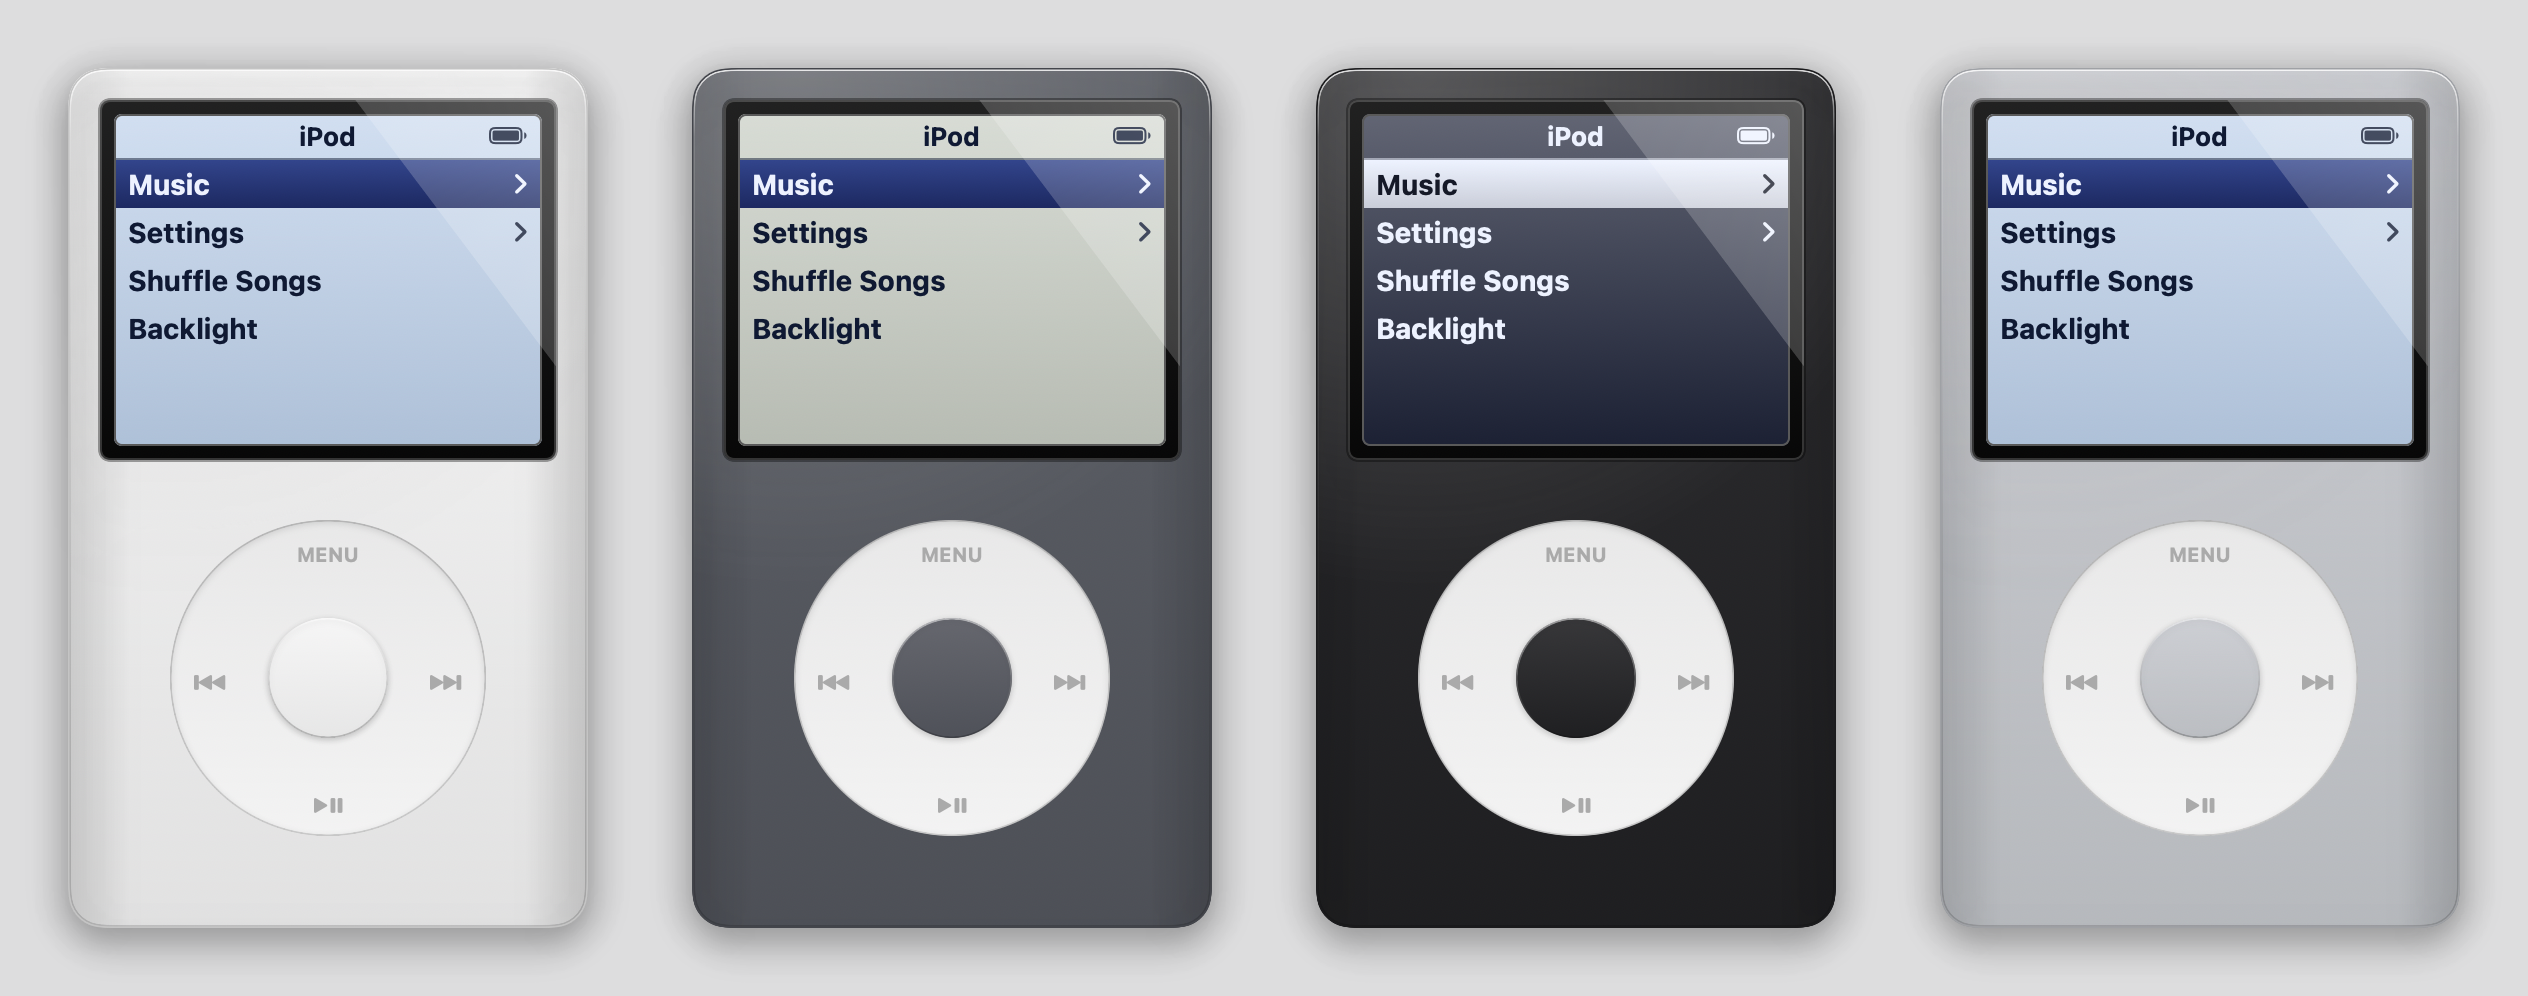
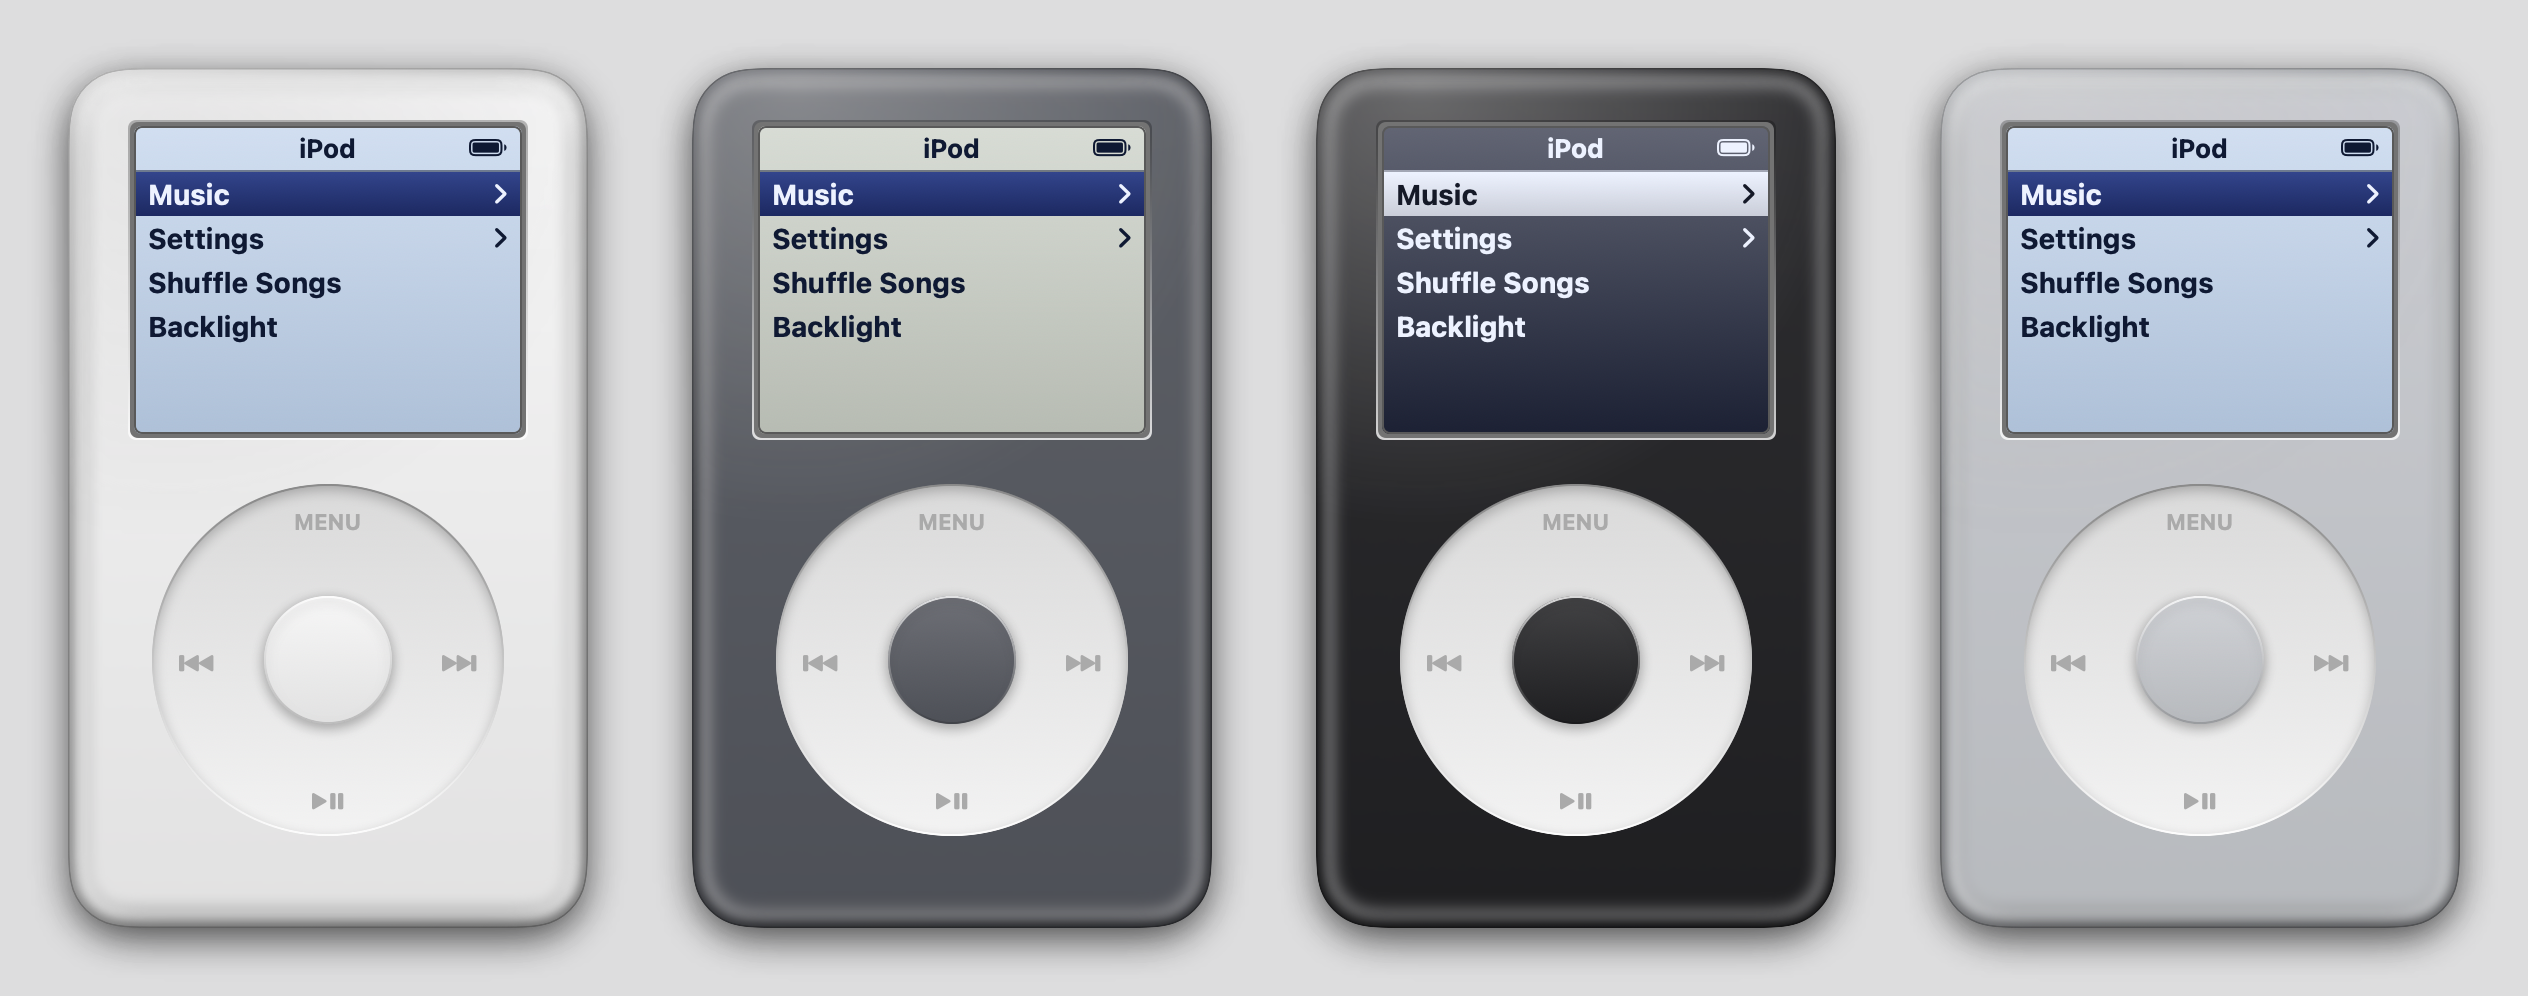
Restyle widget after 4th-gen iPod with rounded body edges
- Pillow-shaped glossy body whose rim rolls away from the face
- Thin gray screen frame in a shallow recess instead of a black bezel
- Recessed click wheel and convex center button
- Update README screenshot

diff --git a/Sources/iPodWidget/Views/IPodView.swift b/Sources/iPodWidget/Views/IPodView.swift
@@ -1,3 +1,4 @@
+import IPodCore
 import SwiftUI
 
 /// Moves the borderless window while the iPod body is dragged.
@@ -31,18 +32,17 @@ struct IPodView: View {
 
     var body: some View {
         let style = Style(theme: themeStore.theme)
-        let colors = style.colors
         let shape = RoundedRectangle(cornerRadius: Layout.bodyCornerRadius, style: .continuous)
-        let bezel = RoundedRectangle(cornerRadius: 5, style: .continuous)
+        let frame = RoundedRectangle(cornerRadius: 4, style: .continuous)
         VStack(spacing: Layout.screenToWheelSpacing) {
+            // Screen under the plastic face: thin gray frame set into a shallow recess.
             ScreenView(model: model)
                 .frame(height: Layout.screenHeight)
-                .padding(Layout.bezelWidth)
-                .background(bezel.fill(LinearGradient(colors: [Palette.bezelTop, Palette.bezelBottom], startPoint: .top, endPoint: .bottom)))
-                // One sheet of glass covers bezel and screen: sharp diagonal glare and a thin bright edge.
-                .overlay(GlareShape().fill(Self.glare).clipShape(bezel).allowsHitTesting(false))
-                .overlay(bezel.strokeBorder(Color.white.opacity(0.18), lineWidth: 1))
-                .overlay(bezel.inset(by: -1).strokeBorder(Color.black.opacity(0.35), lineWidth: 1))
+                .padding(Layout.screenFrameWidth)
+                .background(frame.fill(Palette.screenFrame))
+                .padding(1)
+                .background(frame.fill(Self.recessLip))
+                .padding(.horizontal, Layout.screenSideInset)
             ClickWheelView(
                 onRotate: model.rotate,
                 onButton: model.press,
@@ -51,18 +51,9 @@ struct IPodView: View {
             .frame(width: Layout.wheelDiameter, height: Layout.wheelDiameter)
             Spacer(minLength: 0)
         }
-        .padding(Layout.bodyPadding)
+        .padding(.top, Layout.screenTopInset)
         .frame(width: Layout.deviceSize.width, height: Layout.deviceSize.height)
-        .background(
-            // Anodized aluminum: soft vertical sheen, darker rounded sides, bright top bevel, drop shadow.
-            shape
-                .fill(LinearGradient(colors: [Color(colors.bodyTop), Color(colors.bodyBottom)], startPoint: .top, endPoint: .bottom))
-                .overlay(shape.fill(Self.sideShade))
-                .overlay(shape.fill(Self.specular))
-                .overlay(shape.strokeBorder(Self.bevel, lineWidth: 1.5))
-                .overlay(shape.strokeBorder(Color(colors.bodyEdge), lineWidth: 0.75))
-                .shadow(color: .black.opacity(0.35), radius: 10, y: 6)
-        )
+        .background(PillowBody(colors: style.colors, shape: shape))
         .contentShape(shape)
         .gesture(
             DragGesture(minimumDistance: 2)
@@ -73,59 +64,54 @@ struct IPodView: View {
         .environment(\.style, style)
     }
 
-    private static let specular = RadialGradient(
-        colors: [.white.opacity(0.22), .white.opacity(0)],
-        center: UnitPoint(x: 0.2, y: 0),
-        startRadius: 0,
-        endRadius: 260
-    )
-
-    /// Rounded sides of the body catch less light than its face.
-    private static let sideShade = LinearGradient(
-        stops: [
-            .init(color: .black.opacity(0.10), location: 0),
-            .init(color: .clear, location: 0.12),
-            .init(color: .clear, location: 0.88),
-            .init(color: .black.opacity(0.12), location: 1),
-        ],
-        startPoint: .leading,
-        endPoint: .trailing
-    )
-
-    /// Thin highlight along the top edge fading out toward the bottom.
-    private static let bevel = LinearGradient(
-        stops: [
-            .init(color: .white.opacity(0.85), location: 0),
-            .init(color: .white.opacity(0.15), location: 0.08),
-            .init(color: .black.opacity(0.15), location: 1),
-        ],
+    /// Edge of a recess: shaded where the face drops in at the top, lit at the bottom.
+    private static let recessLip = LinearGradient(
+        colors: [.black.opacity(0.25), .white.opacity(0.8)],
         startPoint: .top,
         endPoint: .bottom
     )
-
-    private static let glare = LinearGradient(
-        colors: [.white.opacity(0.24), .white.opacity(0.07)],
-        startPoint: .topTrailing,
-        endPoint: .bottomLeading
-    )
 }
 
-/// Upper-right wedge of the cover glass that reflects light.
-private struct GlareShape: Shape {
-    func path(in rect: CGRect) -> Path {
-        Path { p in
-            p.move(to: CGPoint(x: rect.width * 0.56, y: 0))
-            p.addLine(to: CGPoint(x: rect.width, y: 0))
-            p.addLine(to: CGPoint(x: rect.width, y: rect.height * 0.74))
-            p.closeSubpath()
+/// Glossy plastic body whose edges roll away from the flat face, lit from the top-left.
+private struct PillowBody: View {
+    let colors: ThemeColors
+    let shape: RoundedRectangle
+
+    var body: some View {
+        let rim = Layout.bodyRimWidth
+        ZStack {
+            // Outer edge: bright where it faces the light, falling into shadow at the bottom-right.
+            shape.fill(LinearGradient(
+                colors: [Color(colors.bodyTop.adjusted(by: -0.08)), Color(colors.bodyBottom.adjusted(by: -0.38))],
+                startPoint: .topLeading,
+                endPoint: .bottomTrailing
+            ))
+            // Highlight band where the edge starts to curve.
+            shape.inset(by: rim * 0.3)
+                .fill(Color(colors.bodyTop.adjusted(by: 0.3)))
+                .blur(radius: rim * 0.25)
+            // Flat face, blended into the rim.
+            shape.inset(by: rim)
+                .fill(LinearGradient(colors: [Color(colors.bodyTop), Color(colors.bodyBottom)], startPoint: .top, endPoint: .bottom))
+                .blur(radius: rim * 0.3)
         }
+        .clipShape(shape)
+        .overlay(shape.fill(Self.gloss))
+        .overlay(shape.strokeBorder(Color.black.opacity(0.2), lineWidth: 0.75))
+        .shadow(color: .black.opacity(0.35), radius: 10, y: 6)
     }
+
+    private static let gloss = RadialGradient(
+        colors: [.white.opacity(0.3), .white.opacity(0)],
+        center: UnitPoint(x: 0.2, y: 0.02),
+        startRadius: 0,
+        endRadius: 220
+    )
 }
 
 /// Colors that do not follow the theme.
 enum Palette {
-    static let bezelTop = Color(white: 0.13)
-    static let bezelBottom = Color(white: 0.03)
+    static let screenFrame = Color(white: 0.45)
     static let lcdFrame = Color(white: 0.35)
     static let backlightOff = Color(red: 0.55, green: 0.58, blue: 0.55).opacity(0.55)
 }

diff --git a/Sources/iPodWidget/Views/ClickWheelView.swift b/Sources/iPodWidget/Views/ClickWheelView.swift
@@ -18,22 +18,22 @@ struct ClickWheelView: View {
         return GeometryReader { geo in
             let center = CGPoint(x: geo.size.width / 2, y: geo.size.height / 2)
             ZStack {
-                // Matte ring set flush into the body: faint top shade, thin dark seam.
+                // Ring set into the face: darker toward the top, inner shadow, lip lit from below.
                 Circle()
                     .fill(
-                        LinearGradient(colors: [Color(face.adjusted(by: -0.04)), Color(face.adjusted(by: 0.03))], startPoint: .top, endPoint: .bottom)
-                            .shadow(.inner(color: .black.opacity(0.15), radius: 2, y: 1))
+                        LinearGradient(colors: [Color(face.adjusted(by: -0.1)), Color(face.adjusted(by: 0.03))], startPoint: .top, endPoint: .bottom)
+                            .shadow(.inner(color: .black.opacity(0.28), radius: 3.5, y: 2.5))
                     )
-                    .overlay(Circle().strokeBorder(Color.black.opacity(0.14), lineWidth: 0.75))
+                    .overlay(Circle().strokeBorder(LinearGradient(colors: [.black.opacity(0.2), .white.opacity(0.9)], startPoint: .top, endPoint: .bottom), lineWidth: 1))
                     .contentShape(Circle())
                     .gesture(rotation(center: center))
                 labels
                     .allowsHitTesting(false)
-                // Slightly convex button in the body color, lit from the top.
+                // Convex button in the body color: lit on top, casting a soft shadow into the ring.
                 Circle()
-                    .fill(LinearGradient(colors: [Color(button.adjusted(by: 0.1)), Color(button.adjusted(by: -0.06))], startPoint: .top, endPoint: .bottom))
-                    .overlay(Circle().strokeBorder(LinearGradient(colors: [.white.opacity(0.5), .black.opacity(0.2)], startPoint: .top, endPoint: .bottom), lineWidth: 0.75))
-                    .shadow(color: .black.opacity(0.18), radius: 1.5, y: 1)
+                    .fill(LinearGradient(colors: [Color(button.adjusted(by: 0.15)), Color(button.adjusted(by: -0.08))], startPoint: .top, endPoint: .bottom))
+                    .overlay(Circle().strokeBorder(LinearGradient(colors: [.white.opacity(0.8), .black.opacity(0.15)], startPoint: .top, endPoint: .bottom), lineWidth: 1))
+                    .shadow(color: .black.opacity(0.3), radius: 3, y: 2)
                     .frame(width: Layout.centerButtonDiameter, height: Layout.centerButtonDiameter)
                     .contentShape(Circle())
                     .onTapGesture(perform: onCenter)
@@ -43,7 +43,7 @@ struct ClickWheelView: View {
 
     private var labels: some View {
         VStack {
-            Text("MENU").font(.system(size: 10, weight: .bold))
+            Text("MENU").font(.system(size: 11, weight: .bold))
             Spacer()
             HStack {
                 Image(systemName: "backward.end.alt.fill")
@@ -53,9 +53,9 @@ struct ClickWheelView: View {
             Spacer()
             Image(systemName: "playpause.fill")
         }
-        .font(.system(size: 10))
+        .font(.system(size: 11))
         .foregroundStyle(Color(style.colors.wheelLabel))
-        .padding(11)
+        .padding(12)
     }
 
     private func rotation(center: CGPoint) -> some Gesture {

diff --git a/Sources/iPodWidget/Constants.swift b/Sources/iPodWidget/Constants.swift
@@ -8,16 +8,19 @@ enum Layout {
     static var windowSize: CGSize {
         CGSize(width: deviceSize.width + shadowMargin * 2, height: deviceSize.height + shadowMargin * 2)
     }
-    static let bodyCornerRadius: CGFloat = 18
-    static let bodyPadding: CGFloat = 16
+    static let bodyCornerRadius: CGFloat = 30
+    /// Width of the rounded edge that rolls away from the flat face.
+    static let bodyRimWidth: CGFloat = 11
+    static let screenTopInset: CGFloat = 26
+    static let screenSideInset: CGFloat = 30
+    static let screenFrameWidth: CGFloat = 2
     static let titleBarHeight: CGFloat = 22
-    static let rowHeight: CGFloat = 24
+    static let rowHeight: CGFloat = 22
     static let visibleRows = 6
     static var screenHeight: CGFloat { titleBarHeight + rowHeight * CGFloat(visibleRows) }
-    static let bezelWidth: CGFloat = 7
-    static let screenToWheelSpacing: CGFloat = 30
-    static let wheelDiameter: CGFloat = 158
-    static let centerButtonDiameter: CGFloat = 60
+    static let screenToWheelSpacing: CGFloat = 22
+    static let wheelDiameter: CGFloat = 176
+    static let centerButtonDiameter: CGFloat = 64
     static let artworkSize: CGFloat = 54
 }
 
